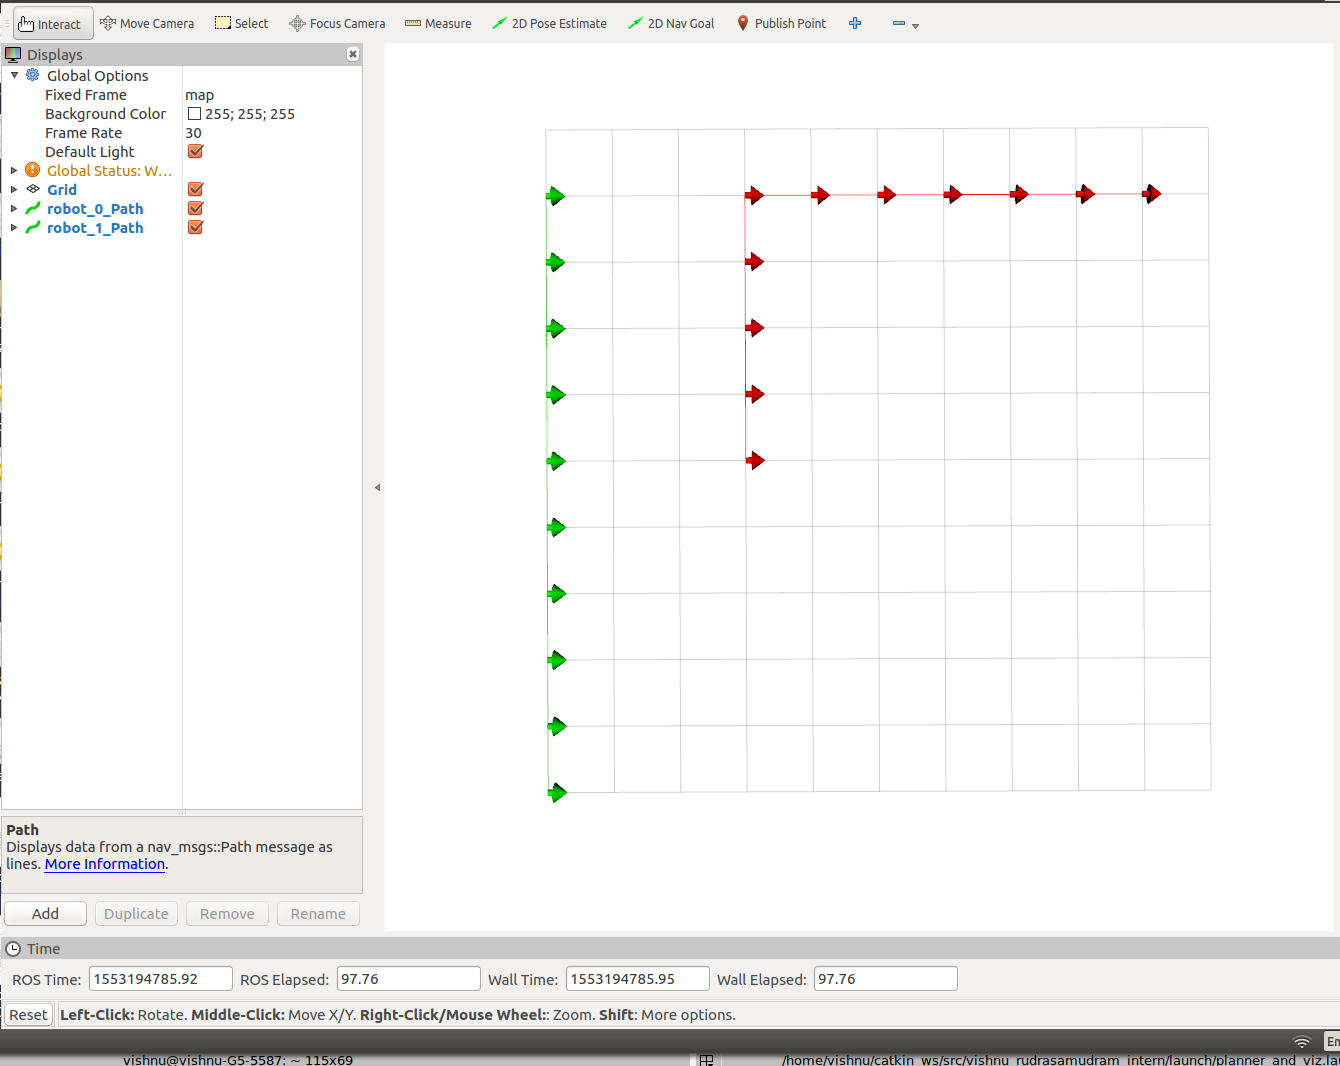
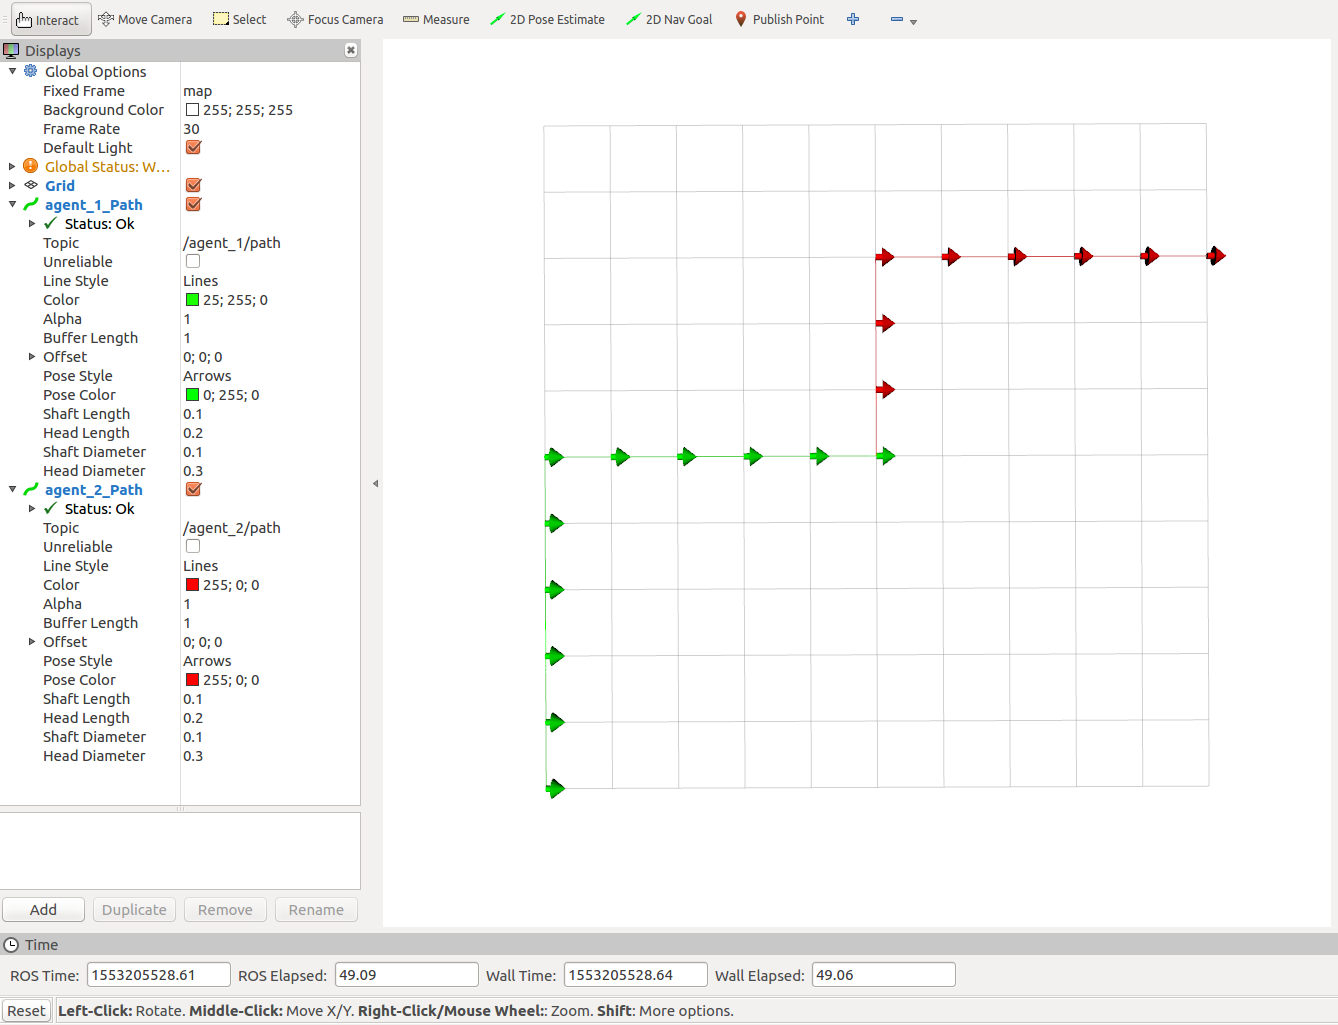
Tested

diff --git a/src/PlanServer.cpp b/src/PlanServer.cpp
@@ -41,7 +41,7 @@ bool multi_agent_planner::PlanServer::getPlan_Server(vishnu_rudrasamudram_intern
 
     */
 
-    std::vector<std::vector<int>> world_state(GRID_SIZE_H, std::vector<int>(GRID_SIZE_W, FREE_CELL));
+    std::vector<std::vector<int>> world_state(GRID_SIZE_H+1, std::vector<int>(GRID_SIZE_W+1, FREE_CELL));
 
     if(req.goal.x<0 || req.goal.x>GRID_SIZE_W || req.goal.y<0 || req.goal.y>GRID_SIZE_H)
         return false;

diff --git a/README.md b/README.md
@@ -43,9 +43,69 @@ This launches planner server node, and rviz node for visualization of the path.
 
 ### Nodes
 
-##### agent_node
+#### agent_node
 
-##### plan_server_node
+Publications: 
+ * /agent_feedback [vishnu_rudrasamudram_intern/Position]
+ * /agent_path [vishnu_rudrasamudram_intern/Path]
 
-##### paths2rviz_node
+Subscriptions: None
 
+Services: 
+ * /update_goal
+
+
+#### plan_server_node
+
+Publications: None
+
+Subscriptions: 
+ * /agent_feedback [vishnu_rudrasamudram_intern/Position]
+
+Services: 
+ * /get_plan
+
+
+#### paths2rviz_node
+Publications: 
+ * /path [nav_msgs/Path]
+
+Subscriptions: 
+ * /agent_path [vishnu_rudrasamudram_intern/Path]
+
+Services: None
+
+### Test
+
+Run below commands in different terminal tabs
+
+
+> `roslaunch vishnu_rudrasamudram_intern add_agent.launch`
+
+>`roslaunch vishnu_rudrasamudram_intern add_agent.launch robot_id:=agent_2 x:=5 y:=5`
+
+>`roslaunch vishnu_rudrasamudram_intern planner_and_viz.launch`
+
+Now, you will see two nodes for agents (robot_0_node and robot_1_node) run and RViz window opens.
+
+Use below command to make a service call to update the goal
+
+```
+rosservice call /update_goal "goal:
+  x: 5
+  y: 5
+  theta: 0.0
+id:
+  data: agent_1" 
+ ``` 
+
+```
+rosservice call /update_goal "goal:
+  x: 10
+  y: 8
+  theta: 0.0
+id:
+  data: agent_2" 
+ ``` 
+
+ Once the above command is executed, rviz plots the path corresponding to robot. Currently, rviz is configured to show paths of only two agents, namely robot_0 and robot_1. 
